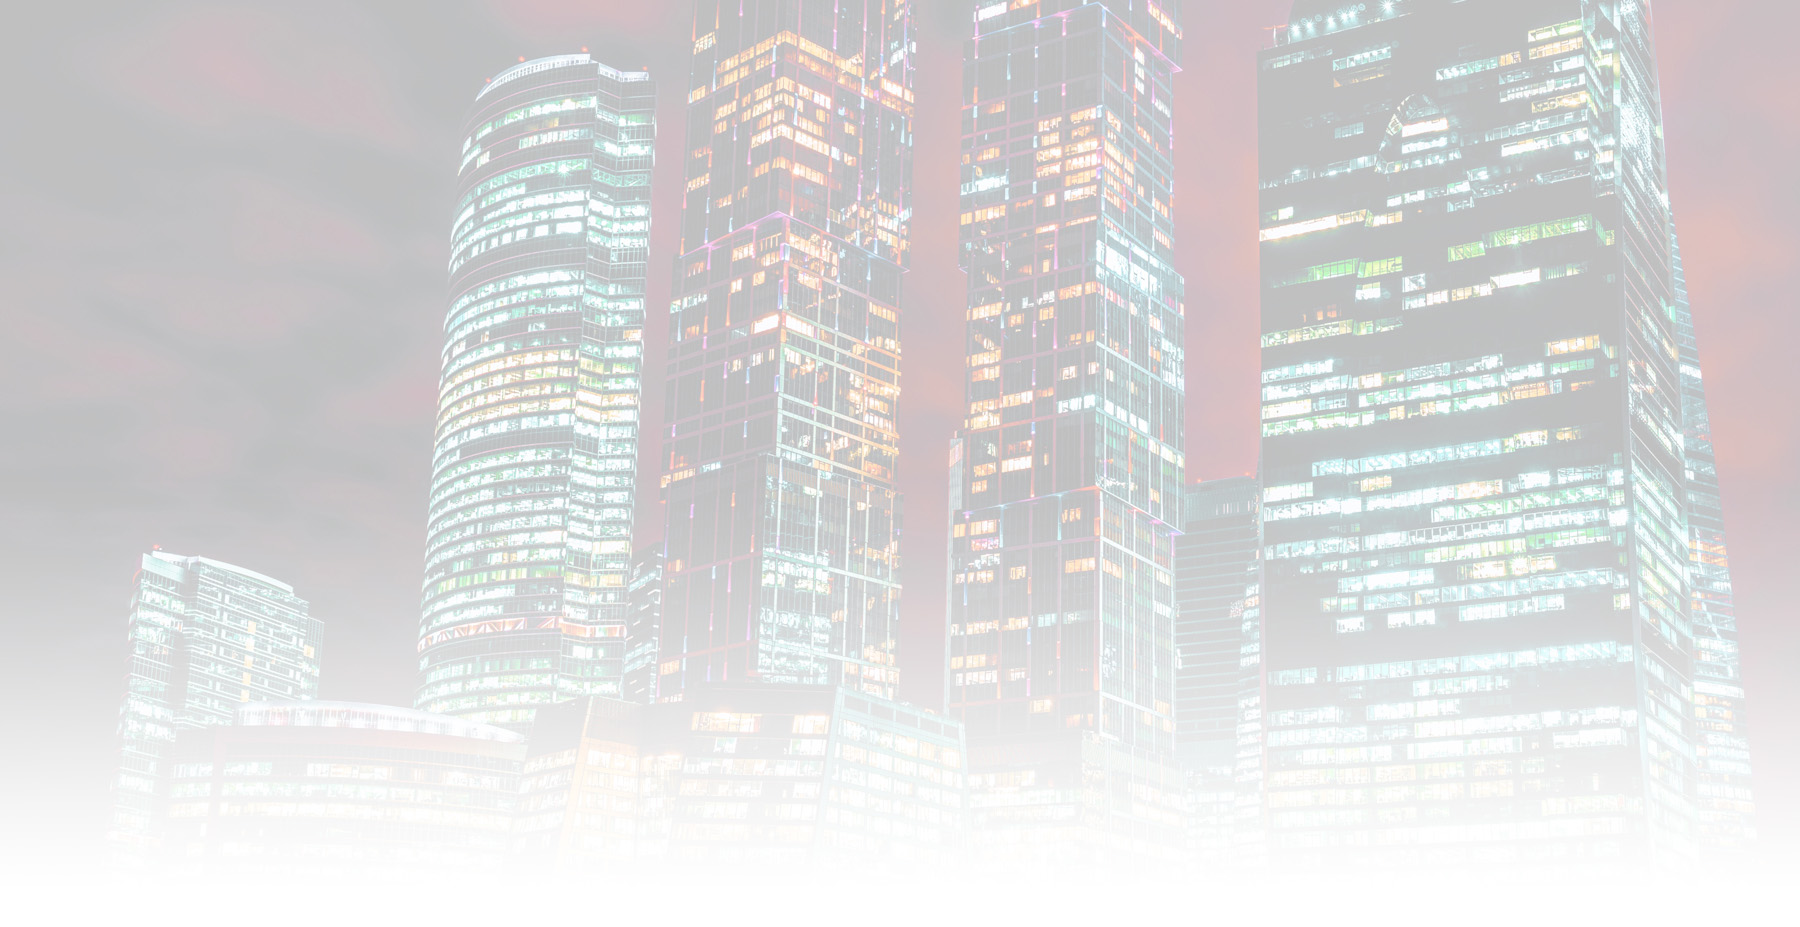
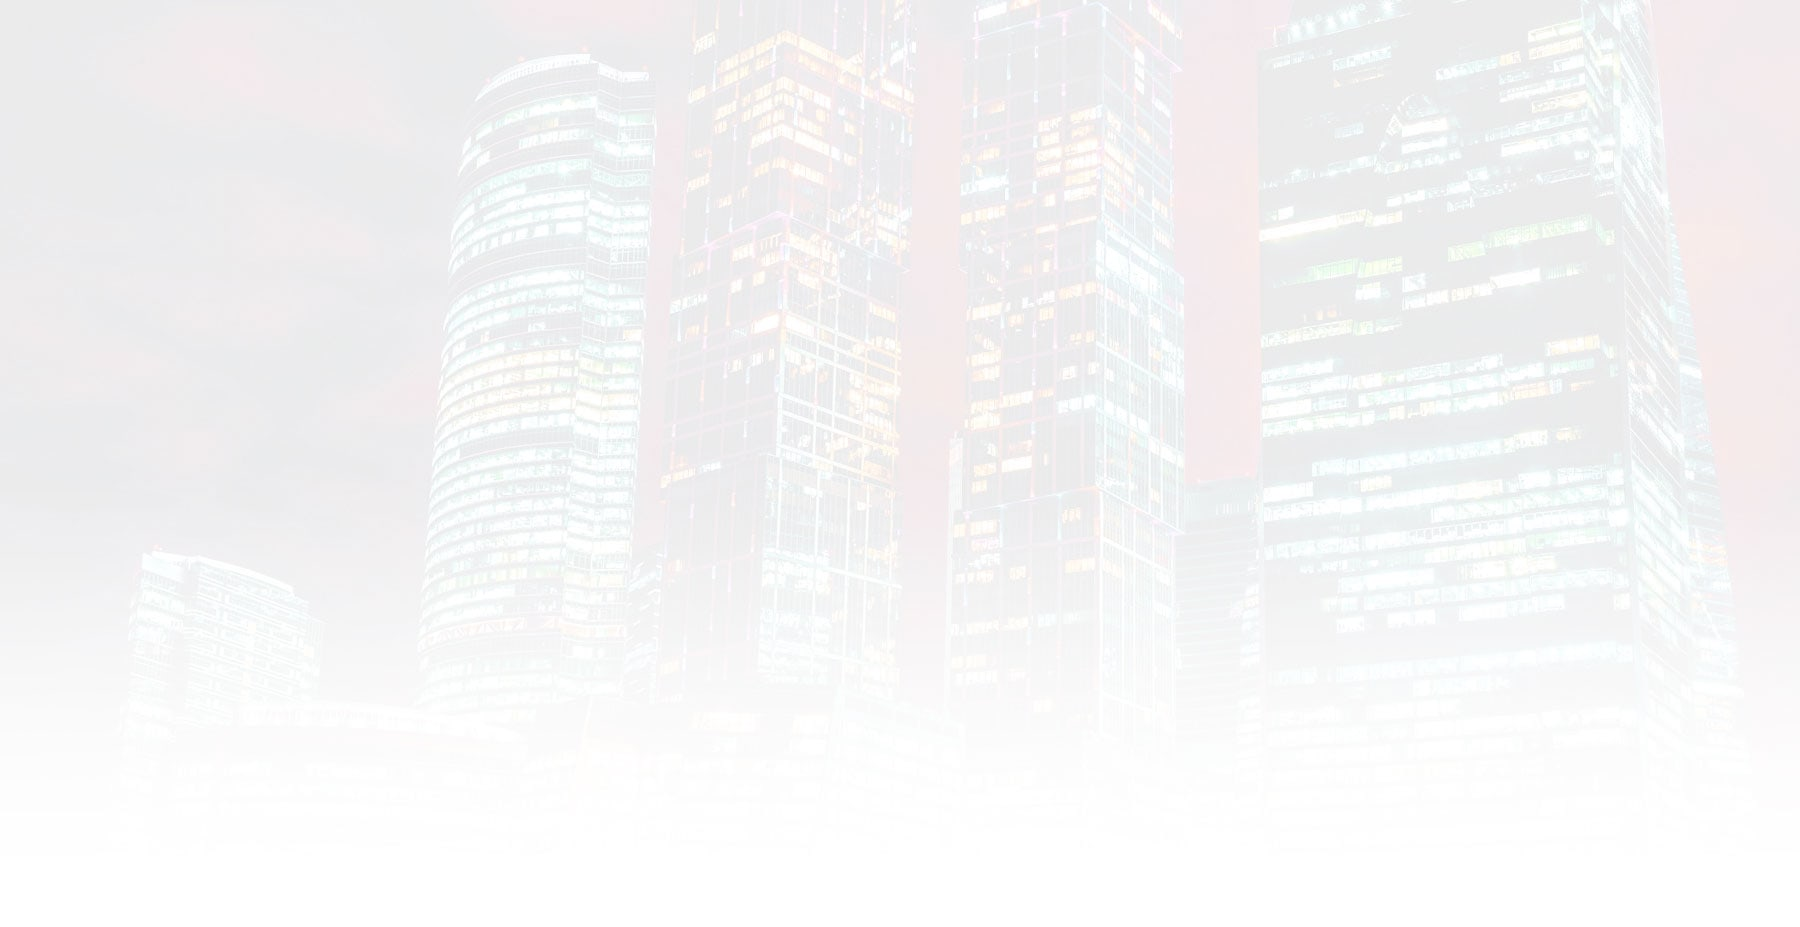
compressed all the pictures, added the link to submit a talk via email, added .rubyversion to the gitignore

diff --git a/index.html b/index.html
@@ -55,17 +55,6 @@ description: Speck&Tech is a community of entrepreneurs, students, professionals
         </div>
 
       </div>
-
-
-<!-- <div class="other-kind-of-events">
-     <h4>
-     </h4>
-
-     <h4>
-     </h4>
-
-     <a class="btn" href="" target="_blank">I want to know more!</a>
-</div> -->
      </div>
 
   </section>
@@ -124,6 +113,13 @@ description: Speck&Tech is a community of entrepreneurs, students, professionals
       <img width="180px" src="img/pycon_nove_logo.svg" alt="Pycon 9">
     </a>
   </section>
+
+  <div class="next-speaker">
+    <h1>
+      Do you wanna be our next speaker?
+    </h1>
+    <a href="mailto:speckandtech@gmail.com" class="btn" target="_blank">💌 Write us! 💌</a>
+  </div>
 
   <section id="events">
     <h2>Previous issues</h2>

diff --git a/_scss/_homepage.scss b/_scss/_homepage.scss
@@ -90,7 +90,6 @@
     margin-top: 2vw;
   }
 
-
   h3 {
     font-size: 3vw;
     line-height: 1.5;
@@ -157,6 +156,28 @@
 
     &:hover {
       background: darken($fb-blue, 10%);
+    }
+  }
+}
+
+.next-speaker {
+  padding: 2em 0;
+  background: $red;
+  color: white;
+  margin-top: 3em;
+  text-align: center;
+  h1 {
+    font-size: 2em;
+    margin-bottom: .8em;
+  }
+  a {
+    text-decoration: none;
+    background: white;
+    padding: 1em;
+    &:hover {
+      text-decoration: none;
+      background: #fafafa;
+      cursor: pointer;      
     }
   }
 }

diff --git a/css/main.css b/css/main.css
@@ -620,6 +620,24 @@ ul {
     #intro .btn-facebook:hover {
       background: #2d4373; }
 
+.next-speaker {
+  padding: 2em 0;
+  background: #e7424f;
+  color: white;
+  margin-top: 3em;
+  text-align: center; }
+  .next-speaker h1 {
+    font-size: 2em;
+    margin-bottom: .8em; }
+  .next-speaker a {
+    text-decoration: none;
+    background: white;
+    padding: 1em; }
+    .next-speaker a:hover {
+      text-decoration: none;
+      background: #fafafa;
+      cursor: pointer; }
+
 #about-homepage {
   max-width: 780px;
   margin: 2vw auto; }
